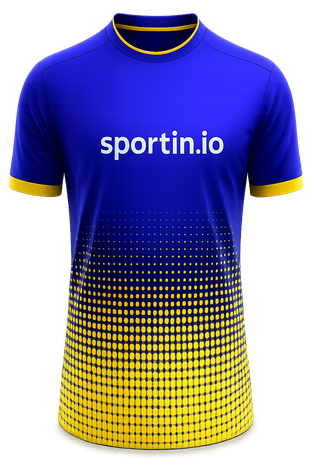
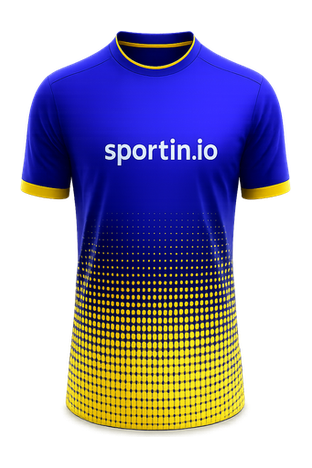
Fix SportIn shirt proportions and reduce grid opacity below header by 30%
- Resize SportIn shirt content to match Urban FM height (444px → 406px)
- Align vertical positioning so both shirts sit at same baseline
- Reduce mesh grid opacity to 70% below the header/hero section

diff --git a/mesh-bg.js b/mesh-bg.js
@@ -102,7 +102,9 @@
       else sideFade = 0.8 + (t - 0.7) / 0.3 * 0.2;
     }
 
-    return Math.max(headerFade, sideFade);
+    var result = Math.max(headerFade, sideFade);
+    if (worldY >= headerBottom) result *= 0.7;
+    return result;
   }
 
   function hslColor(x, y, t) {